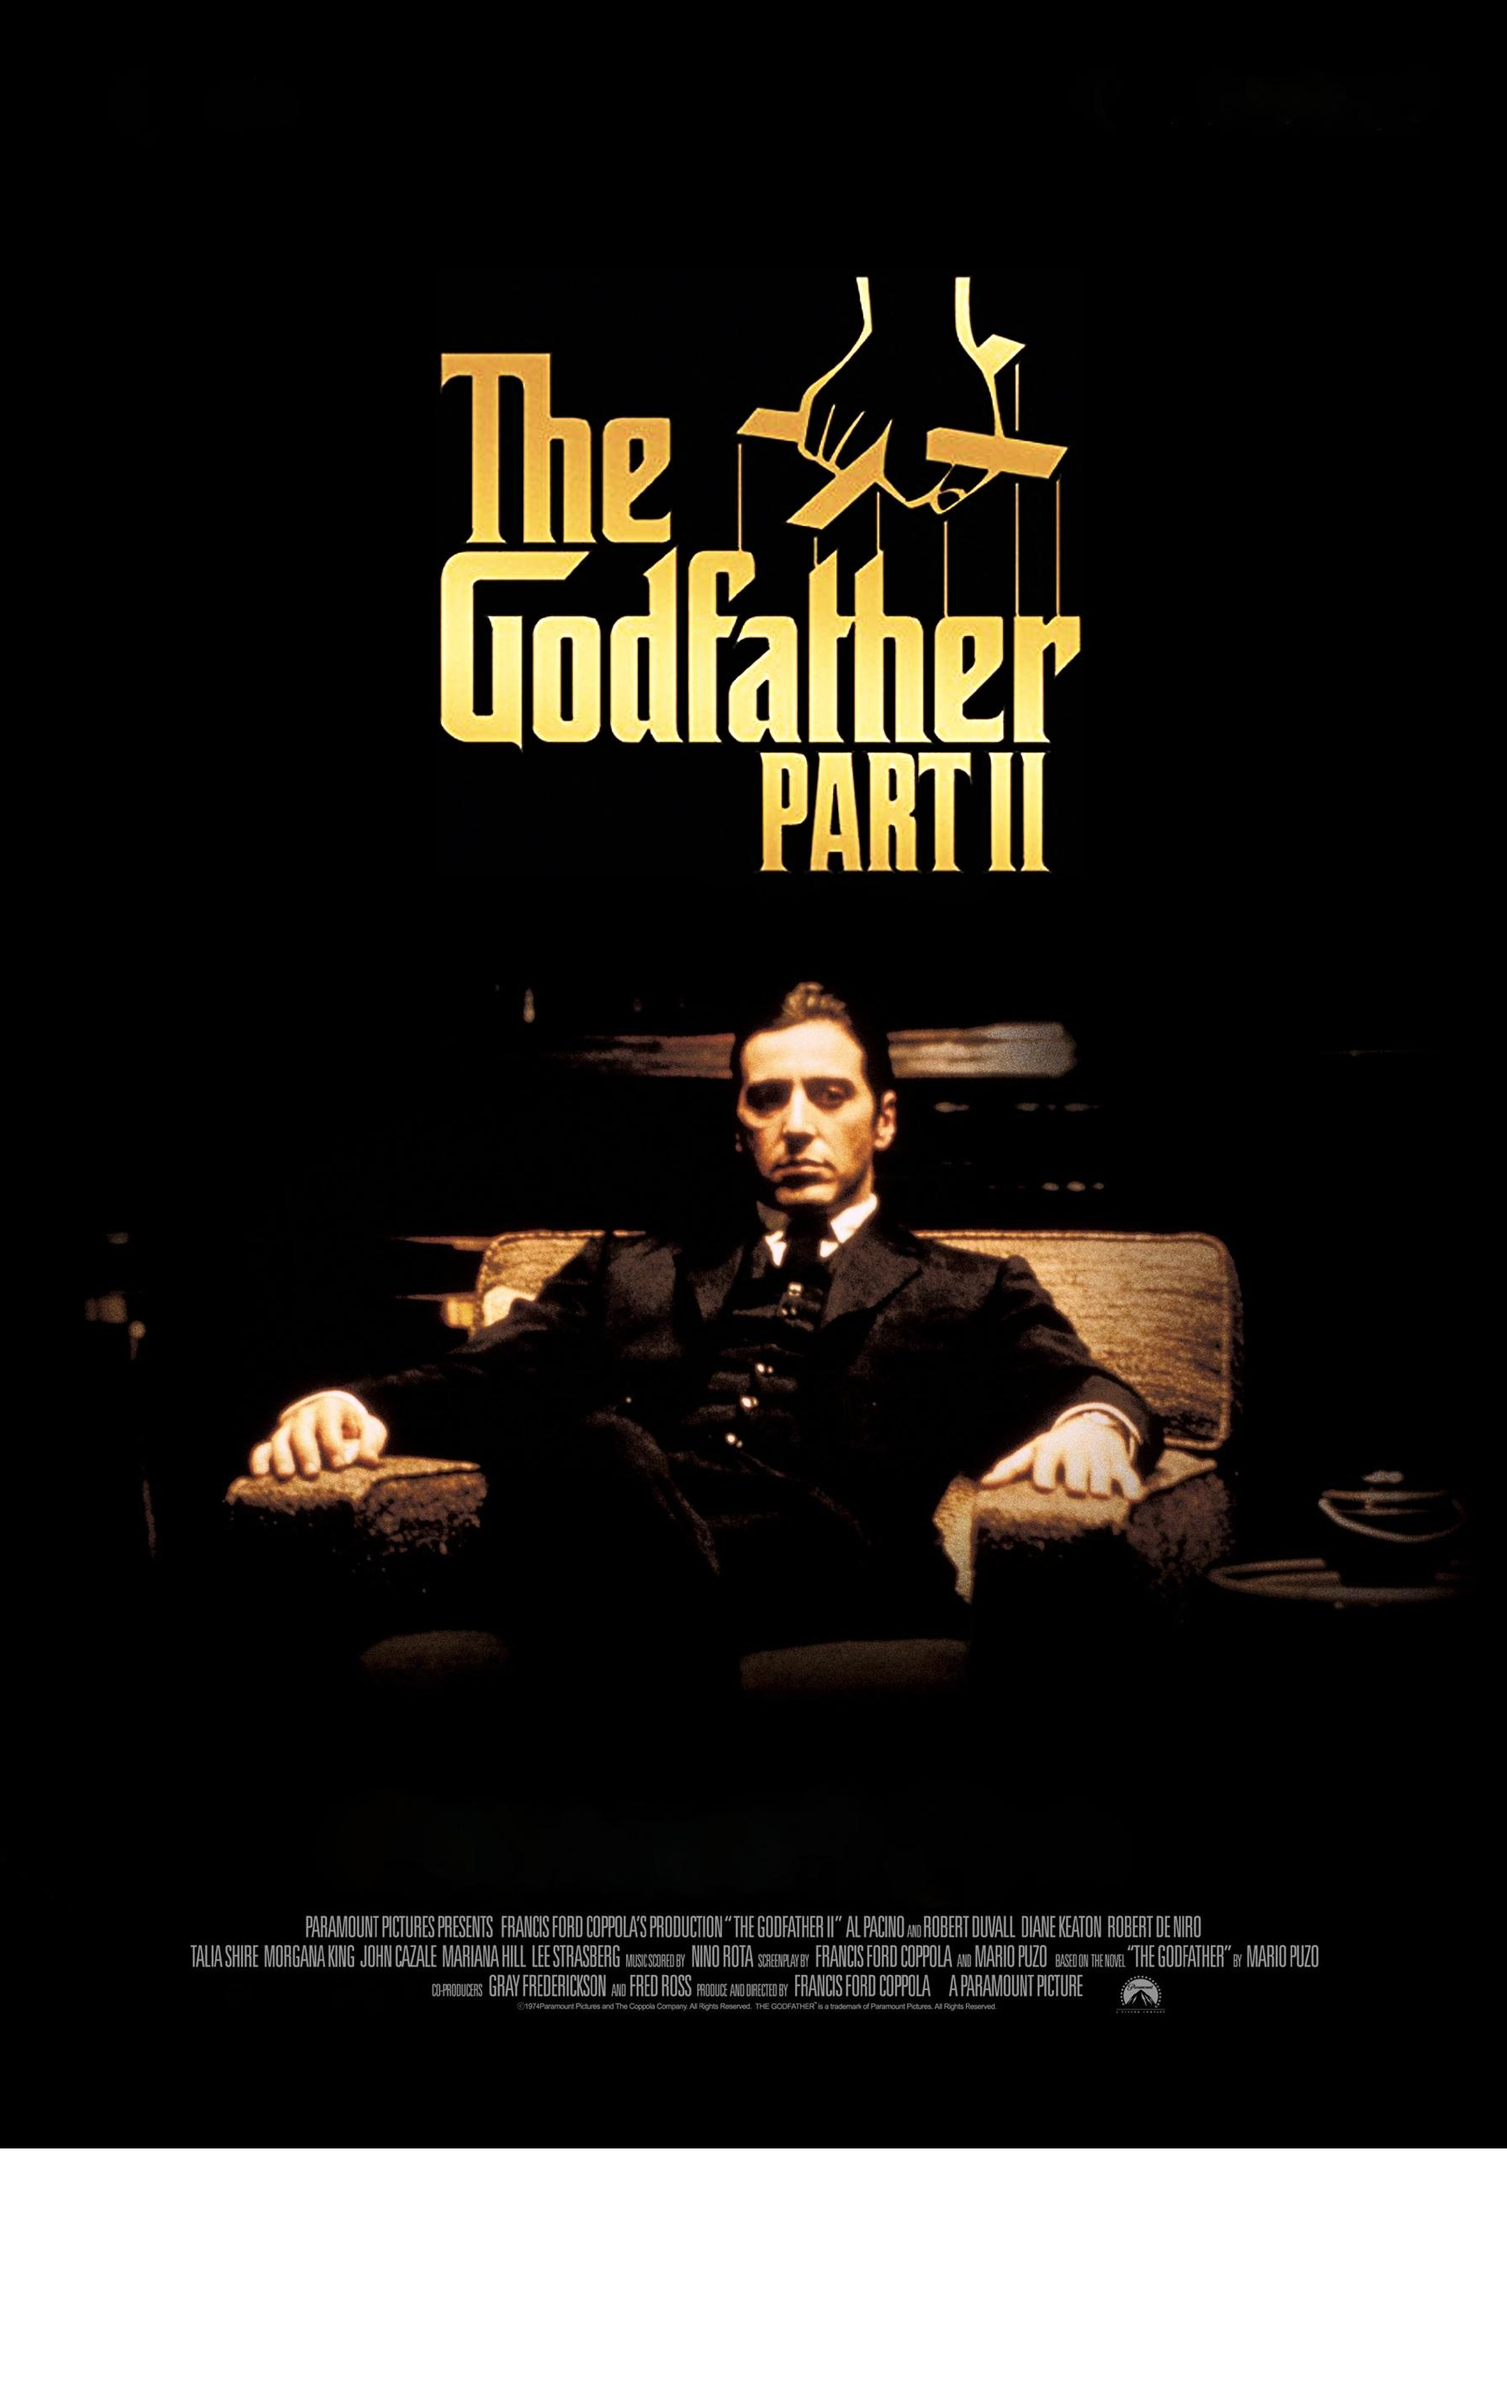
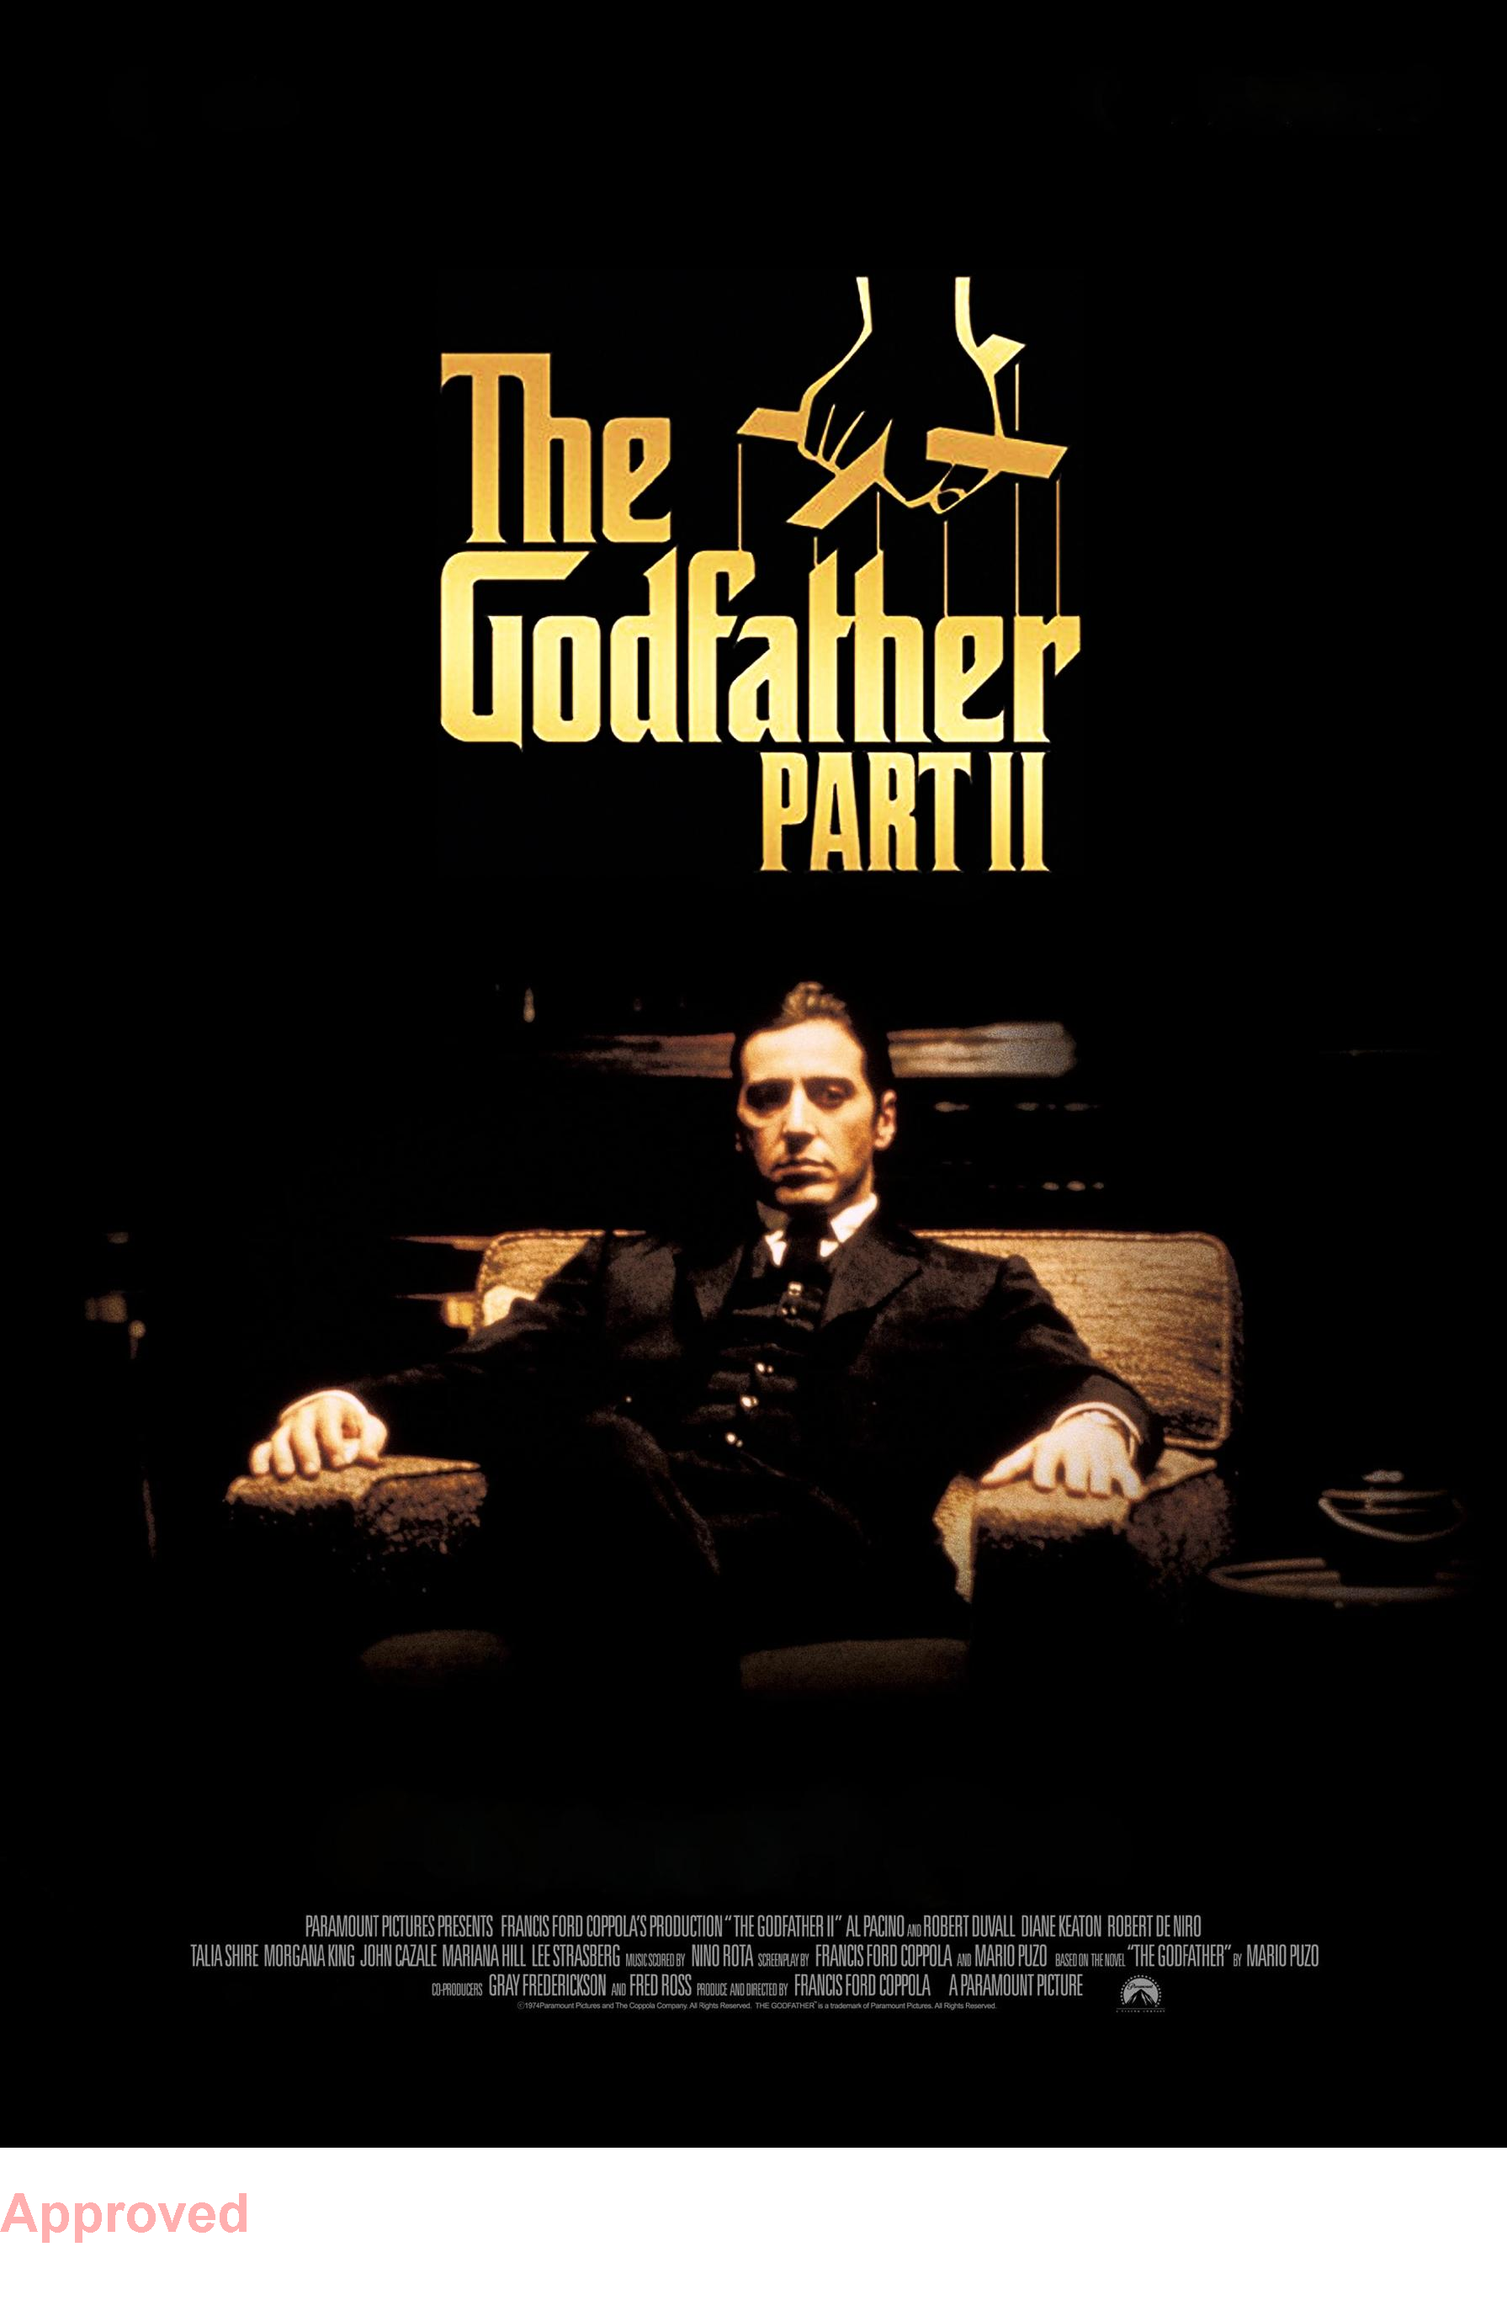
writing sentence on new image

diff --git a/src/main/java/com/alura_stickers/StickerGenerator.java b/src/main/java/com/alura_stickers/StickerGenerator.java
@@ -1,5 +1,7 @@
 package com.alura_stickers;
 
+import java.awt.Color;
+import java.awt.Font;
 import java.awt.Graphics2D;
 import java.awt.image.BufferedImage;
 import java.io.File;
@@ -17,7 +19,7 @@ public class StickerGenerator {
         //Create new image in memory with transparency and new size
         int width = originalImage.getWidth();
         int height = originalImage.getHeight();
-        int newHeight = height + 300;
+        int newHeight = height + 200;
         BufferedImage newImage = new BufferedImage(width, newHeight, BufferedImage.TRANSLUCENT);
 
         //Copy image to new image
@@ -25,8 +27,14 @@ public class StickerGenerator {
 
         graphics.drawImage(originalImage, 0, 0, null);
 
-        //Write a sentence on the new image
+        //Configuring font
+        Font font = new Font(Font.SANS_SERIF, Font.BOLD, 64);
+        graphics.setColor(Color.PINK);
+        graphics.setFont(font);
 
+
+        //Write a sentence on the new image
+        graphics.drawString("Approved", 0, newHeight - 100);
 
         //Write new image to a file
         ImageIO.write(newImage, "png", new File("output/sticker.png"));
